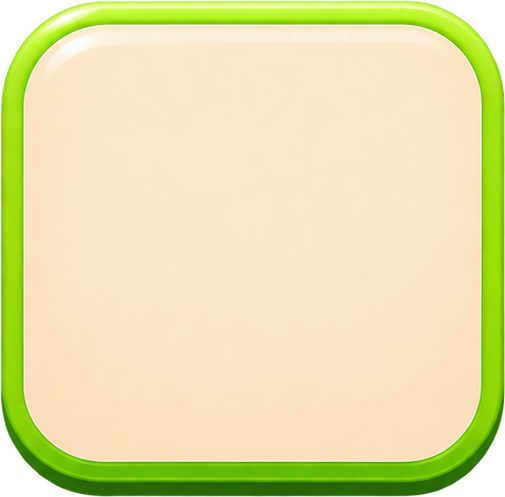
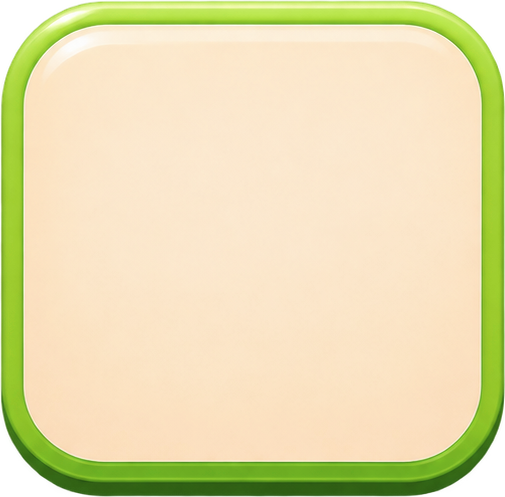
UI polish: calmer colours, compact world maps, tidy popups
Tone the painted kit down, repaint the map as one compact switchback trail per world
with ten nodes, thicker popup frames and titles, left-aligned settings rows, golden
check-in tile, cream board status, larger shop tab words.

Changed region(s): [[0.0, 0.0, 1.0, 0.996]]

diff --git a/tools/kit/tone.py b/tools/kit/tone.py
@@ -1,0 +1,32 @@
+"""Tone down the painted kit: the sketch-derived pieces came out candy-bright. Saturated pixels lose some
+saturation and a little brightness; cream and white stay as they are (the change is weighted by saturation).
+
+uv run --no-project --with pillow --with numpy python tools/kit/tone.py <png>... [--sat 0.8 --val 0.92] [--out DIR]
+Without --out the files are rewritten in place (originals stay in Git history)."""
+import argparse, os
+import numpy as np
+from PIL import Image
+
+def tone(img, sat, val):
+    rgba = np.asarray(img.convert("RGBA")).astype(np.float32) / 255.0
+    hsv = np.asarray(img.convert("RGB").convert("HSV")).astype(np.float32) / 255.0
+    s = hsv[..., 1]
+    w = np.clip((s - 0.25) / 0.45, 0.0, 1.0)          # 0 for cream/white, 1 for strong colour
+    hsv[..., 1] = s * (1.0 - w * (1.0 - sat))
+    hsv[..., 2] = hsv[..., 2] * (1.0 - w * (1.0 - val))
+    rgb = Image.fromarray((hsv * 255.0).round().astype(np.uint8), "HSV").convert("RGB")
+    out = np.asarray(rgb).astype(np.float32) / 255.0
+    return Image.fromarray((np.dstack([out, rgba[..., 3:]]) * 255.0).round().astype(np.uint8), "RGBA")
+
+if __name__ == "__main__":
+    ap = argparse.ArgumentParser()
+    ap.add_argument("files", nargs="+")
+    ap.add_argument("--sat", type=float, default=0.8)
+    ap.add_argument("--val", type=float, default=0.92)
+    ap.add_argument("--out")
+    a = ap.parse_args()
+    for f in a.files:
+        t = tone(Image.open(f), a.sat, a.val)
+        dst = os.path.join(a.out, os.path.basename(f)) if a.out else f
+        t.save(dst, optimize=True)
+        print(dst)

diff --git a/tools/kit/style_preview.py b/tools/kit/style_preview.py
@@ -195,7 +195,7 @@ def win():
 
 
 def map_screen():
-    m = img("art/map_bg_continuous_w1.png")
+    m = img("art/map_world_w1.png")
     top = 1080
     base = m.crop((0, top, W, top + H))
     nodes = [[514, 2700], [310, 2440], [744, 2180], [660, 1920], [252, 1660], [672, 1400], [640, 1140]]

diff --git a/docs/work-log/ui-polish/report.md b/docs/work-log/ui-polish/report.md
@@ -1,54 +1,8 @@
-# UI polish report
+# Report
 
-## Corrected delivery after user feedback
-
-The latest Hoot-header reference further narrows the correction: keep the original standalone title composition, solid back arrow, white fill and brown outline, and change only the font. Page titles now use cap56 and map captions cap36. Sixteen padded whole-phrase heading textures were generated and wired through the same locale IDs; existing plain body-label and numeral rendering was retained. No extra heading background was added. The launcher also checks source-file modification times so repeated edits and newly generated locale assets are imported on the user's next launch, even when Git status paths stay the same.
-
-The user rejected the added header/navigation backplates and broad palette change. Approval of the first aviary page did not authorize applying its palette throughout the game. The latest feedback also called out faint map ratings and small birds in dense forest layouts.
-
-The current implementation:
-
-- Removes the added enclosing header panels from aviary list/detail and shop, and the wide header/navigation dock from the map. Titles and buttons have separate spaces; existing compact counters, item cards, level nodes and modal bodies remain.
-- Restores shared cream #fff7e8, rim #e9d6b0 and brown ink #5a3a1e. Map Shop/Aviary buttons and shop prices are orange again. Rewards return to their original blue with white numerals. The aviary list's own card colours stay local to that page.
-- Keeps complete localized text textures, bounded titles, clear control icons and the useful spacing/input fixes. Detail pages retain one ability line and omit personality fluff.
-- Keeps actual map clipping and tap bounds at y=200..1660. Level nodes are 132 px and current 160 px. The title and coin pill remain compact, with a 24 px gap between their layout budgets.
-- Adds two outlined map-rating SVGs: gold earned stars and hollow empty stars, both with the original warm brown outline colour. Stars render at 50 px with 4 px gaps directly over the map; no rating card is added.
-- Replaces the board's row-pitch-dependent bird density with constant 0.88. The old formula made 174 px snow-forest rows use 0.6, compared with about0.93 in the early forest. Dense-forest birds therefore grow about 47 percent. The same scale drives seat spacing, branch width and hit-centre placement, preserving clear spacing without changing authored rows or capacities.
-- Retains 128 px modal close controls, bounded translated titles, once-only closing actions, entry/exit tween coordination and reward coins returning to the visible reward coin. Shop's extra position-only bird hops remain removed; existing painted frames and breathing remain.
-
-No changes were made to core/, meta/, authored levels, save field names, purchase rules or economy. Earlier launcher access and window-size edits remain. Unrelated bird-model files were not touched. No commit, push, package or release was created.
-
-## Localized assets
-
-The English source catalog contains 77 stable label IDs. The offline generator produced 77 complete label textures and 17 digit/symbol cells using the bundled OFL Nunito font. No font is rendered at runtime. Locale selection uses the full locale, base language and declared English default; label/number nodes refresh on translation changes. Only English is authored.
-
-The existing production command is:
-
-```sh
-DYLD_LIBRARY_PATH=/opt/homebrew/opt/fribidi/lib uv run --no-project --isolated --with pillow tools/kit/build_localized_labels.py en
-```
-
-It ran again for the latest header correction and produced77 plain labels,16 outlined headings and17 numeral cells. The two rating assets are authored SVGs; original illustrations and icon sources remain.
-
-## User entry points
-
-Close an already-running game window and relaunch to load these changes:
-
-```sh
-./run.sh
-```
-
-The launcher continues to provide 40 playable levels, at least 50,000 coins and the 936 x 1664 default window. Existing example-data previews do not save progress:
-
-```sh
-./run.sh --preview=aviary_view:detail_hoot
-./run.sh --preview=shop_view:boosters
-./run.sh --preview=map_view:forest_trail
-./run.sh --preview=popups:win_three_stars
-```
-
-## Acceptance boundary
-
-Only source edits, authored SVG assets and manual source review were performed for this correction. No tests, lint, build, Godot launch, UI automation, runtime screenshots or timed captures were run. Runtime visual/animation acceptance remains with the user.
-
-Source geometry supports the uniform bird scale at rest: its 149.6 px full canvas fits within the snow forest's 171–179 px same-side row gaps, and seat spacing expands with it. Selected/hopping birds can approach adjacent rows, particularly in the tighter autumn forest; source reading alone does not establish painted-frame clearance. Bird animation frames, outfit flight selection, branch idle coordination and gate navigation wiring remain outside this correction.
+- New art: `art/map_world_w1..w4.png` (local Codex, prompt `tools/map/sketch/world.txt`; ten node centres measured
+  from the painted switchbacks), `art/kit/card_gold.png` (`tools/kit/sketch/gold.txt`). `map_bg_continuous_w*` removed.
+- Tone pass: `tools/kit/tone.py` once over the kit (see tools/kit/sketch/README.md).
+- Verification: `bash scripts/run_tests.sh` rc=0 (core checks 0 failures); `bash scripts/screenshots.sh` 76 captures,
+  failed=0, reviewed as contact sheets; naming guard 0 violations. Stills only; motion not re-recorded.
+- Open: the How to Play popup over the map still shows the world sign dimmed above its ribbon.

diff --git a/docs/work-log/ui-polish/spec.md b/docs/work-log/ui-polish/spec.md
@@ -1,31 +1,12 @@
-# UI polish
+# UI polish after the sketch round
 
-## Authorized scope
+The user: stop matching the sketches one to one; keep their style, fix what is broken: colours too bright, layouts
+off. Layout is ours to decide.
 
-The user requested UI detail fixes and multilingual support with English content first. The user then rejected the broad palette changes and extra background panels introduced during rollout. Preserve original page colours and remove enclosing header/navigation cards. Keep complete localized labels, useful spacing/input corrections and clear icons. The latest feedback also requests readable map stars and consistent bird sizes across levels. This is presentation work; do not edit core/meta rules, levels, save schema or economy. Preserve unrelated bird-model work and the earlier launcher/window changes.
-
-The current user instruction overrides older repository instructions about the Codex art-only role and mandatory verification: do not run tests, lint, builds, UI automation or acceptance captures. The user tests the delivered changes.
-
-## Shared contract
-
-- Restore shared cream #fff7e8, rim #e9d6b0 and ink #5a3a1e. Map Shop/Aviary buttons and shop prices are orange again; rewards retain their original blue. The aviary list's explicit colours stay scoped to that list.
-- No enclosing page header or navigation background. Place page titles and buttons independently on the scene. Keep functional item cards, round level nodes and compact counters.
-- The user's supplied Hoot header is the typography reference: original solid back arrow, centered white lettering with warm brown outline, no backing card. Only the font shape changes. Page heading caps are reduced to 56 and map captions to 36. Whole-phrase heading textures are separate style assets under the same locale ID, not character assemblies.
-- Keep secondary controls at 128 and primary actions at 160 design pixels. Disabled controls keep their size. Use clear icons without explanatory footnotes.
-- UI.label(parent, stable_id, bounds, cap, color) renders a whole localized label texture and fits it uniformly. UI.label_width(id, cap) reports its natural width. Retain the original UI.shape treatment for existing panels and controls.
-- Existing UI.number/set_number/number_width interfaces keep their cap-height and alignment contract, using clean localized numeral cells. UI.icon_texture(name) resolves shared control art.
-- Modal.open takes a stable title ID, with an optional final title_number string for numbered level titles. Gameplay callbacks remain unchanged.
-- Locale IDs are independent of English wording. Only English ships; later locales provide the same IDs and their own font/assets. No language menu is needed yet. Text never uses a font at runtime.
-- Remove decorative bird personality copy; preserve concise ability descriptions. Keep existing birds, forests and continuous character animation.
-- Clip map interactions and foreground content to y=200..1660, clear of independent header/navigation controls. Keep scrolling world paintings unchanged. Map ratings use gold filled stars and hollow empty stars with brown outlines, 50 px with 4 px gaps.
-- Use one board bird scale, 0.88, instead of shrinking birds according to the painting's row pitch. Seat spacing and branch length follow the same scale; authored rows, branch capacity and game rules stay unchanged.
-- Bound modal titles and content; make close buttons consistent; prevent a closing action from activating twice. Win reward coins animate around the visible reward pill rather than flying into the board settings button.
-
-## Ownership
-
-- Coordinator: game/ui.gd, game/ui_text.gd, game/board_view.gd, locale catalogs and generation tool, shared vector icons, documentation/integration.
-- Aviary/shop worker: game/aviary_view.gd and game/shop_view.gd.
-- Map worker: game/map_view.gd.
-- Modal worker: game/popup.gd and game/popups.gd.
-
-Workers do not spawn workers, run verification or edit shared files. No commit, push, packaging or publication is requested.
+- Tone the painted kit down (pills, discs, ribbon, cards, toggles, home tiles, map nodes, wooden frame, map worlds,
+  home clearing) with `tools/kit/tone.py`.
+- Map: one compact painted world per chapter with a switchback trail and ten nodes on it (dense like the sketch),
+  readable locked nodes, Current under Chapters, sign ropes behind the top bar, a soft fade under the bottom buttons.
+- Popups: thicker wooden frame, larger title ribbon, settings rows left-aligned, chest in a glow with sparkles,
+  progress number centred, today's check-in tile golden, finer rims on small cards, chapter rows tidy.
+- Board: cream status capsules like the coin counters. Shop: larger tab words.

diff --git a/tools/kit/sketch/README.md b/tools/kit/sketch/README.md
@@ -9,3 +9,7 @@ then cut by alpha with `cut.py` (`uv run --no-project --with scipy --with pillow
 - frame.txt: ribbon (margins 240/110) and panel (wooden frame, margins 180/232/180/180, PANEL_SCALE 0.5).
 - cards.txt: card (margins 108/108/108/124, CARD_SCALE 0.72), capsule_plain, hud_bar.
 - pieces.txt: map_button_help, map_sign; nodes.txt: map_node, map_node_current.
+
+Tone: the painted pieces were toned down once with `tools/kit/tone.py` (saturation 0.82, value 0.93 on the pills,
+discs, ribbon, cards, toggles, home tiles and map nodes; 0.7/0.9 on the wooden panel; 0.88/0.96 on the map worlds and
+the home clearing). Do not run it again on the same files.
